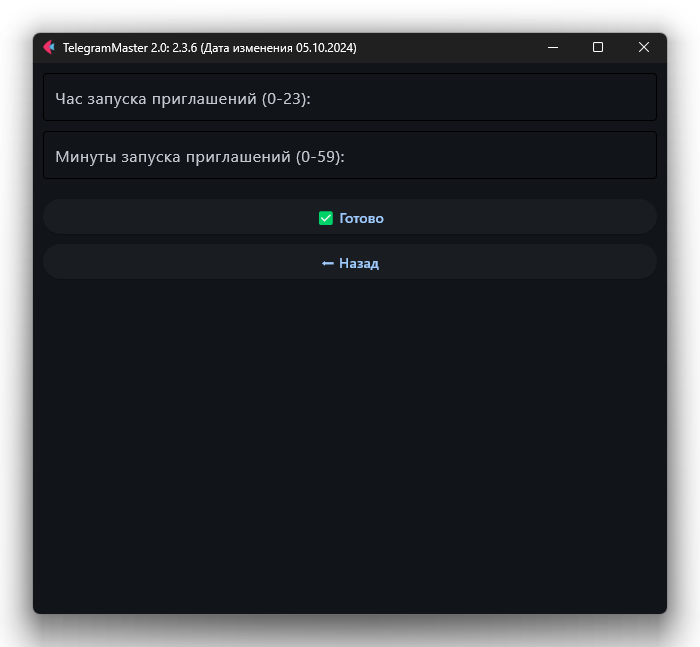
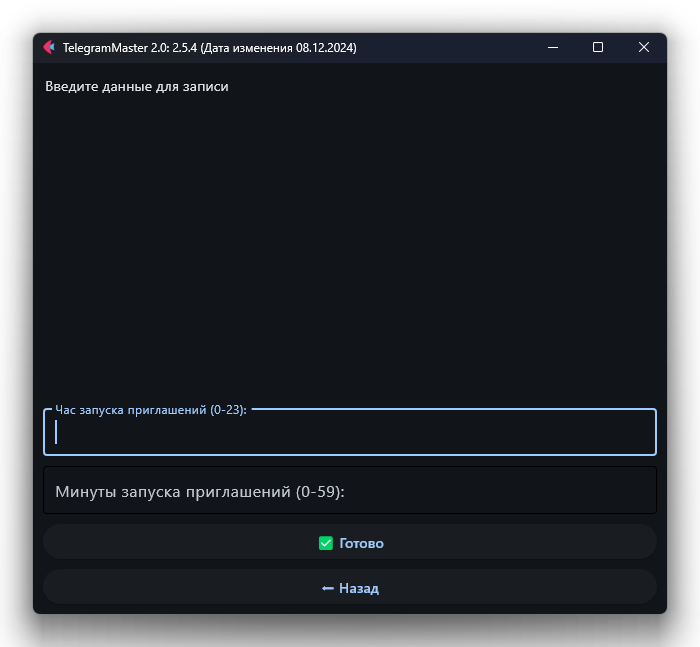
⬆ Обновление HTML-страницы '🕒 Инвайтинг в определенное время'.

diff --git a/docs/templates/inviting/inviting_at_a_certain_time.html b/docs/templates/inviting/inviting_at_a_certain_time.html
@@ -83,9 +83,10 @@
         <hr/> <!-- Горизонтальная линия-->
 
         <blockquote>
-            Во время выполнения функции «Инвайтинг в определенное время» {{program_name}}, запрашивает у пользователя
-            время запуска инвайтинга (*например, пользователь вводит 02 часа и 21 минуту. В этом случае
-            {{program_name}} будет запускаться ежедневно в 02:21*) и позволяет приглашать неограниченное число
+            Во время выполнения функции «{{invitation_at_a_certain_time_ru}}» {{program_name}}, запрашивает у
+            пользователя
+            время запуска инвайтинга (<b>например, пользователь вводит 02 часа и 21 минуту. В этом случае
+            {{program_name}} будет запускаться ежедневно в 02:21</b>) и позволяет приглашать неограниченное число
             участников со стороны {{program_name}}. Если на аккаунт Telegram будет получено предупреждение во время
             приглашения в группу за отправку спама или флуд, а свободных аккаунтов больше нет, программа завершит
             работу и сообщит об этом пользователю.
@@ -109,46 +110,118 @@
             </p>
 
             2⃣ <strong>🔗 Запишите ссылку на группу в настройках {{program_name}}</strong> См. <a
-                href="{{ url_for('settings') }}">Запись ссылки</a>).<br>
-            3⃣ Подключить аккаунты к {{program_name}} <a href="{{ url_for('connect_accounts') }}">(см. Подключение
-            аккаунтов Telegram к {{program_name}})</a> или скопировать session файл аккаунта в папку
-            <code>{{program_name}}/user_data/accounts/inviting</code><br>
-
-            <!-- Изображение с центровкой -->
-            <p style="text-align: center;">
-                <img src="/static/images/inviting.png" width="30%"
-                     alt="Telegram Master">
-            </p>
-
-            4⃣ Выполнить Парсинг участников группы для последующего инвайтинга.<br>
-            5⃣ Ввести в программу час запуска программы в формате 03, 06, 23<br>
-            6⃣ Ввести минуты запуска программы в формате 15, 25, 35<br>
-        </blockquote>
-
-
-        <p>
-            После того как действия выше будут выполнены, вы можете приступить к инвайтингу в вашу группу.
-        </p>
-
-
-        <blockquote>
-            Если ранее вы выполняли действия по настройке {{program_name}}, то выполните следующие действия:<br>
-            1⃣ Запустить {{program_name}} (см. <a href="{{ url_for('launch_telegrammaster') }}">Запуск
-            {{program_name}}</a>).<br>
+                href="{{ url_for('link_entry') }}">Запись ссылки</a>).<br>
 
             <!-- Изображение с центровкой -->
             <p style="text-align: center;">
                 <!-- Пример правильного пути к изображению -->
-                <img src="/static/images/TelegramMaster_2.png" alt="Telegram Master"
+                <img src="/static/images/settings/link_entry.png" alt="Telegram Master"
                      width="40%">
             </p>
 
-            2⃣ Перейти в меню "Инвайтинг"<br>
-            3⃣ Запустить функцию "Инвайтинг в определенное время"<br>
+            3⃣ 📊 Пропишите лимиты на аккаунт См. <a href="{{ url_for('account_limits') }}">Лимиты на аккаунт</a>).<br>
 
             <!-- Изображение с центровкой -->
             <p style="text-align: center;">
-                <img src="/static/images/inviting/notification_about_the_end_of_invitation.png" width="30%"
+                <!-- Пример правильного пути к изображению -->
+                <img src="/static/images/settings/account_limits.png" alt="Telegram Master"
+                     width="40%">
+            </p>
+
+            4⃣ 🔄 Подключите аккаунты к {{program_name}} <a href="{{ url_for('connect_accounts') }}">(см.
+            Подключение
+            аккаунтов Telegram к {{ program_name }})</a> или скопируйте session файл аккаунта в папку <code>{{program_name}}/user_data/accounts/inviting</code>.<br>
+
+            <!-- Изображение с центровкой -->
+            <p style="text-align: center;">
+                <!-- Пример правильного пути к изображению -->
+                <img src="/static/images/connecting_accounts/connecting_accounts.png" alt="Telegram Master"
+                     width="40%">
+            </p>
+
+            Если нет аккаунта в {{program_name}}, в папке inviting, то программа выдаст предупреждение.
+
+            <!-- Изображение с центровкой -->
+            <p style="text-align: center;">
+                <img src="/static/images/inviting.png" width="40%" alt="Telegram Master">
+            </p>
+
+            5⃣ 👥 Выполните парсинг участников группы См. <a href="{{ url_for('parsing') }}">Парсинг участников
+            группы</a>.<br>
+
+            6⃣ Запустить функцию "{{time_between_subscriptions_ru}}".<br>
+
+
+            <!-- Изображение с центровкой -->
+            <p style="text-align: center;">
+                <!-- Пример правильного пути к изображению -->
+                <img src="/static/images/settings/time_between_subscriptions.png"
+                     alt="Telegram Master"
+                     width="40%">
+            </p>
+            <p>
+                Ввести:<br>
+            </p>
+            <blockquote>
+                - Час запуска инвайтинга<br>
+                - Минуты запуска инвайтинга<br>
+            </blockquote>
+            7⃣ Нажать "Готово".<br>
+
+            <!-- Изображение с центровкой -->
+            <p style="text-align: center;">
+                <!-- Пример правильного пути к изображению -->
+                <img src="/static/images/done_button.png" alt="Telegram Master"
+                     width="40%">
+            </p>
+
+            <p>После выполнения этих шагов вы можете приступить к инвайтингу.</p>
+
+            <hr/> <!-- Горизонтальная линия-->
+
+            <h2>▶ Запуск {{invitation_at_a_certain_time_ru}}</h2>
+
+            1⃣ <strong>📋 Перейдите в меню "Инвайтинг"</strong>.<br>
+
+            <!-- Изображение с центровкой -->
+            <p style="text-align: center;">
+                <!-- Пример правильного пути к изображению -->
+                <img src="/static/images/inviting/inviting_menu.png" alt="Telegram Master" width="40%">
+            </p>
+
+            2⃣ <strong>🚀 Запустите функцию "{{invitation_at_a_certain_time_ru}}"</strong>.<br>
+            <!-- Изображение с центровкой -->
+            <p style="text-align: center;">
+                <!-- Пример правильного пути к изображению -->
+                <img src="/static/images/inviting/inviting_ru.png" alt="Telegram Master" width="40%">
+            </p>
+
+            <p>
+                В окне программы вы увидите все ранее настроенные функции программы для {{inviting_ru}}.
+            </p>
+
+            <p>
+                Например, такие, как:
+            </p>
+            <blockquote>
+                * Лимит на аккаунт<br>
+                * Всего username в базе данных<br>
+                * Подключенные аккаунты<br>
+                * Количество подключенных аккаунтов<br>
+            </blockquote>
+            3⃣ Выберите в выпадающем списке группу, в которую вы хотите инвайтить.
+
+            <!-- Изображение с центровкой -->
+            <p style="text-align: center;">
+                <!-- Пример правильного пути к изображению -->
+                <img src="/static/images/inviting/group_selection.png" alt="Telegram Master" width="50%">
+            </p>
+
+            4⃣ Нажмите кнопку "{{start_inviting_button}}"".
+
+            <!-- Изображение с центровкой -->
+            <p style="text-align: center;">
+                <img src="/static/images/inviting/inviting_start.png" width="50%"
                      alt="Telegram Master">
             </p>
 
@@ -156,14 +229,25 @@
                 После окончания инвайтинга, программа выдаст уведомление об окончании инвайтинга.<br>
             </p>
 
+            <!-- Изображение с центровкой -->
+            <p style="text-align: center;">
+                <img src="/static/images/inviting/notification_about_the_end_of_invitation.png" width="40%"
+                     alt="Telegram Master">
+            </p>
+
         </blockquote>
 
-        <p>
-            Во время инвайтинга программа удаляет из базы <code>{{ program_name }}/user_data/software_database.db</code>
-            данных тех пользователей, которых добавил аккаунт или попытался добавить, но не смог. {{program_name}}
-            записывает
-            действия в лог-файл (в файл <code>{{ program_name }}/user_data/log/log.log</code>).
-        </p>
+        <div
+                style="border: 2px solid #f5c6cbf5; background-color: #f8d7da; padding: 20px; border-radius: 10px; margin: 20px 0; font-family: Arial, sans-serif;">
+            <p style="color: #a19b9b; margin: 0; font-size: 16px;">
+            <p>Во время инвайтинга программа удаляет из базы
+                <code>{{program_name}}/user_data/software_database.db</code> данные тех пользователей, которых добавил
+                аккаунт или попытался добавить, но не смог. {{program_name}} записывает действия в лог-файл
+                (<code>{{program_name}}/user_data/log/log.log</code>).
+            </p>
+
+        </div>
+
 
         <hr/> <!-- Горизонтальная линия-->
 

diff --git a/docs/templates/inviting/inviting_1_time_per_hour.html b/docs/templates/inviting/inviting_1_time_per_hour.html
@@ -83,7 +83,8 @@
         <hr/> <!-- Горизонтальная линия-->
 
         <p>
-            Во время выполнения функции «{{invitation_1_time_per_hour_ru}}» {{program_name}} производит инвайтинг в начале каждого
+            Во время выполнения функции «{{invitation_1_time_per_hour_ru}}» {{program_name}} производит инвайтинг в
+            начале каждого
             часа (<b>например, 18:00 или в 01:00, если на вашем ПК, например, время 18:08, то программа будет ожидать
             до 19:00 или, например, 20:55, то программа будет ожидать до 21:00</b>) и позволяет приглашать
             неограниченное число участников со стороны {{program_name}}. Если на аккаунт Telegram будет получено
@@ -108,7 +109,8 @@
                      width="40%">
             </p>
 
-            2⃣ <strong>🔗 Запишите ссылку на группу в настройках {{program_name}}</strong> См. <a href="{{ url_for('link_entry') }}">Запись ссылки</a>).<br>
+            2⃣ <strong>🔗 Запишите ссылку на группу в настройках {{program_name}}</strong> См. <a
+                href="{{ url_for('link_entry') }}">Запись ссылки</a>).<br>
 
             <!-- Изображение с центровкой -->
             <p style="text-align: center;">
@@ -149,9 +151,11 @@
 
             <p>После выполнения этих шагов вы можете приступить к инвайтингу.</p>
 
+            <hr/> <!-- Горизонтальная линия-->
+
             <h2>▶ Запуск {{invitation_1_time_per_hour_ru}}</h2>
 
-            2⃣ <strong>📋 Перейдите в меню "Инвайтинг"</strong>.<br>
+            1⃣ <strong>📋 Перейдите в меню "Инвайтинг"</strong>.<br>
 
             <!-- Изображение с центровкой -->
             <p style="text-align: center;">
@@ -159,7 +163,7 @@
                 <img src="/static/images/inviting/inviting_menu.png" alt="Telegram Master" width="40%">
             </p>
 
-            3⃣ <strong>🚀 Запустите функцию "{{invitation_1_time_per_hour_ru}}"</strong>.<br>
+            2⃣ <strong>🚀 Запустите функцию "{{invitation_1_time_per_hour_ru}}"</strong>.<br>
             <!-- Изображение с центровкой -->
             <p style="text-align: center;">
                 <!-- Пример правильного пути к изображению -->
@@ -179,7 +183,7 @@
                 * Подключенные аккаунты<br>
                 * Количество подключенных аккаунтов<br>
             </blockquote>
-            4⃣ Выберите в выпадающем списке группу, в которую вы хотите инвайтить.
+            3⃣ Выберите в выпадающем списке группу, в которую вы хотите инвайтить.
 
             <!-- Изображение с центровкой -->
             <p style="text-align: center;">
@@ -187,7 +191,7 @@
                 <img src="/static/images/inviting/group_selection.png" alt="Telegram Master" width="50%">
             </p>
 
-            5⃣ Нажмите кнопку "{{start_inviting_button}}"".
+            4⃣ Нажмите кнопку "{{start_inviting_button}}"".
 
             <!-- Изображение с центровкой -->
             <p style="text-align: center;">

diff --git a/docs/templates/working_with_reactions.html b/docs/templates/working_with_reactions.html
@@ -169,8 +169,8 @@
         </p>
 
         <blockquote>
-            1⃣ Запустить {{ program_name }} (см. <a href="{{ url_for('launch_telegrammaster') }}">Запуск
-            {{ program_name }}</a>).<br>
+            1⃣ Запустить {{program_name}} (см. <a href="{{ url_for('launch_telegrammaster') }}">Запуск
+            {{program_name}}</a>).<br>
 
             <!-- Изображение с центровкой -->
             <p style="text-align: center;">

diff --git a/docs/templates/settings/time_between_subscriptions.html b/docs/templates/settings/time_between_subscriptions.html
@@ -122,6 +122,7 @@
                      width="40%">
             </p>
 
+
         </blockquote>
 
         <p>

diff --git a/src/features/account/TGInviting.py b/src/features/account/TGInviting.py
@@ -173,7 +173,7 @@ class InvitingToAGroup:
 
     async def inviting_without_limits(self, page: ft.Page) -> None:
         """
-        Инвайтинг без лимитов. Группа для инвайтинга выбирается из выпадающего списка. Информация о работе выводится
+        🚀 Инвайтинг. Группа для инвайтинга выбирается из выпадающего списка. Информация о работе выводится
         в графический интерфейс и записывается в лог файл.
 
         :param page: Страница интерфейса Flet для отображения элементов управления.
@@ -202,7 +202,7 @@ class InvitingToAGroup:
 
     async def launching_invite_every_day_certain_time(self, page: ft.Page) -> None:
         """
-        Запуск приглашения участников каждый день в определенное время, выбранное пользователем.
+        📅 Инвайтинг каждый день. Запуск приглашения участников каждый день в определенное время, выбранное пользователем.
         """
 
         lv = ft.ListView(expand=10, spacing=1, padding=2, auto_scroll=True)
@@ -236,7 +236,7 @@ class InvitingToAGroup:
 
     async def launching_an_invite_once_an_hour(self, page: ft.Page) -> None:
         """
-        Запуск приглашения участников 1 раз в час.
+        ⏰ Инвайтинг 1 раз в час. Запуск приглашения участников 1 раз в час.
 
         :param page: Страница интерфейса Flet для отображения элементов управления.
         """
@@ -258,9 +258,9 @@ class InvitingToAGroup:
                 async def general_invitation_to_the_group_scheduler():
                     await self.general_invitation_to_the_group(page, lv, dropdown)
 
-                await log_and_display("Запуск программы в 45 минут каждого часа", lv, page)
+                await log_and_display("Запуск программы в 00 минут каждого часа", lv, page)
 
-                self.scheduler.hourly(dt.time(minute=45, second=15),
+                self.scheduler.hourly(dt.time(minute=00, second=00),
                                       general_invitation_to_the_group_scheduler)  # Асинхронная функция для выполнения
 
                 while True:
@@ -304,7 +304,7 @@ class InvitingToAGroup:
 
     async def schedule_invite(self, page: ft.Page) -> None:
         """
-        Запуск автоматической отправки приглашений участникам каждый день в определенное время.
+        🕒 Инвайтинг в определенное время. Запуск автоматической отправки приглашений участникам каждый день в определенное время.
 
         :param page: Страница интерфейса Flet для отображения элементов управления.
         """

diff --git a/main.py b/main.py
@@ -56,18 +56,18 @@ async def main(page: ft.Page):
         await main_menu_program(page)  # Главное меню программы
         # ______________________________________________________________________________________________________________
         try:
-            if page.route == "/inviting":  # Меню "Инвайтинг"
+            if page.route == "/inviting":  # Меню "🚀 Инвайтинг"
                 await inviting_menu(page)
-            elif page.route == "/inviting_without_limits":  # Инвайтинг
+            elif page.route == "/inviting_without_limits":  # 🚀 Инвайтинг
                 await InvitingToAGroup().check_before_inviting(page=page)
                 await InvitingToAGroup().inviting_without_limits(page=page)
-            elif page.route == "/inviting_1_time_per_hour":  # Инвайтинг 1 раз в час
+            elif page.route == "/inviting_1_time_per_hour":  # ⏰ Инвайтинг 1 раз в час
                 await InvitingToAGroup().check_before_inviting(page=page)
                 await InvitingToAGroup().launching_an_invite_once_an_hour(page=page)
-            elif page.route == "/inviting_certain_time":  # Инвайтинг в определенное время
+            elif page.route == "/inviting_certain_time":  # 🕒 Инвайтинг в определенное время
                 await InvitingToAGroup().check_before_inviting(page=page)
                 await InvitingToAGroup().schedule_invite(page=page)
-            elif page.route == "/inviting_every_day":  # Инвайтинг каждый день
+            elif page.route == "/inviting_every_day":  # 📅 Инвайтинг каждый день
                 await InvitingToAGroup().check_before_inviting(page=page)
                 await InvitingToAGroup().launching_invite_every_day_certain_time(page=page)
             # ______________________________________________________________________________________________________________

diff --git a/docs/app.py b/docs/app.py
@@ -107,6 +107,8 @@ async def inviting_at_a_certain_time(request: Request):
                                       {"request": request, "program_name": program_name,
                                        "inviting": inviting_ru,
                                        "invitation_at_a_certain_time_ru": invitation_at_a_certain_time_ru,
+                                       "time_between_subscriptions_ru": time_between_subscriptions_ru,
+                                       "start_inviting_button": start_inviting_button,
                                        })
 
 
@@ -118,6 +120,7 @@ async def inviting_every_day(request: Request):
                                       {"request": request, "program_name": program_name,
                                        "inviting_ru": inviting_ru,
                                        "inviting_every_day_ru": inviting_every_day_ru,
+                                       "start_inviting_button": start_inviting_button,
                                        })
 
 
@@ -299,6 +302,7 @@ async def time_between_subscriptions(request: Request):
         "request": request,
         "program_name": program_name,
         "time_between_subscriptions_ru": time_between_subscriptions_ru,
+
     })
 
 

diff --git a/CHANGELOG.md b/CHANGELOG.md
@@ -220,5 +220,9 @@ ___
 6. Отображение настроек инвайтинга настроенных пользователем инвайтинга.
 7. Добавлена возможность записывать в базу данных несколько ссылок для инвайтинга, так как в программе появился выбор
    группы для инвайтинга.
+8. Обновление документации для функции "🚀 Инвайтинг"
+9. Обновление документации для функции "⏰ Инвайтинг 1 раз в час"
+10. Обновление документации для функции "🕒 Инвайтинг в определенное время"
+11. Обновление документации для функции "📅 Инвайтинг каждый день"
 
 Обновляйтесь и пользуйтесь новыми возможностями TelegramMaster 2.0! 🚀
